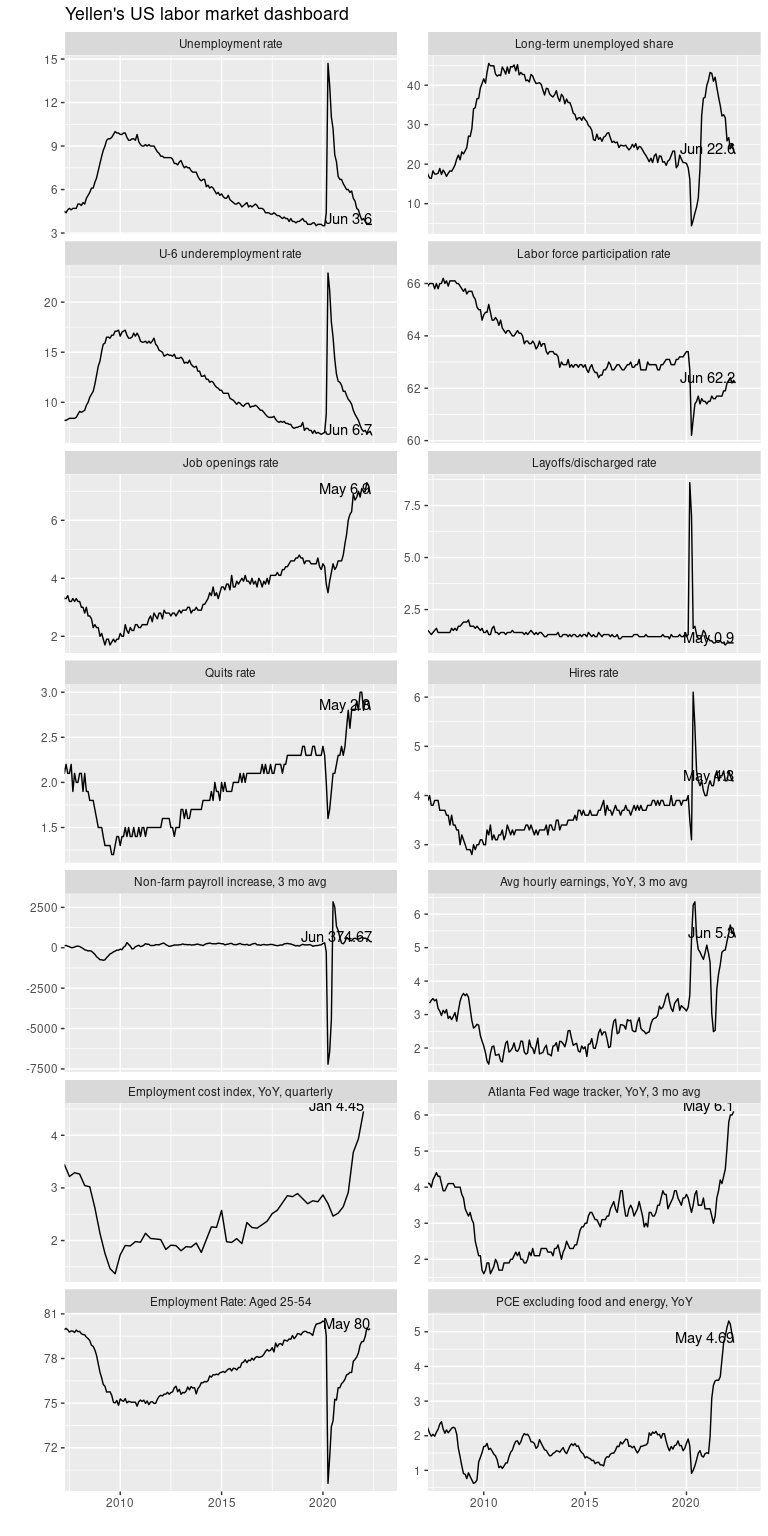
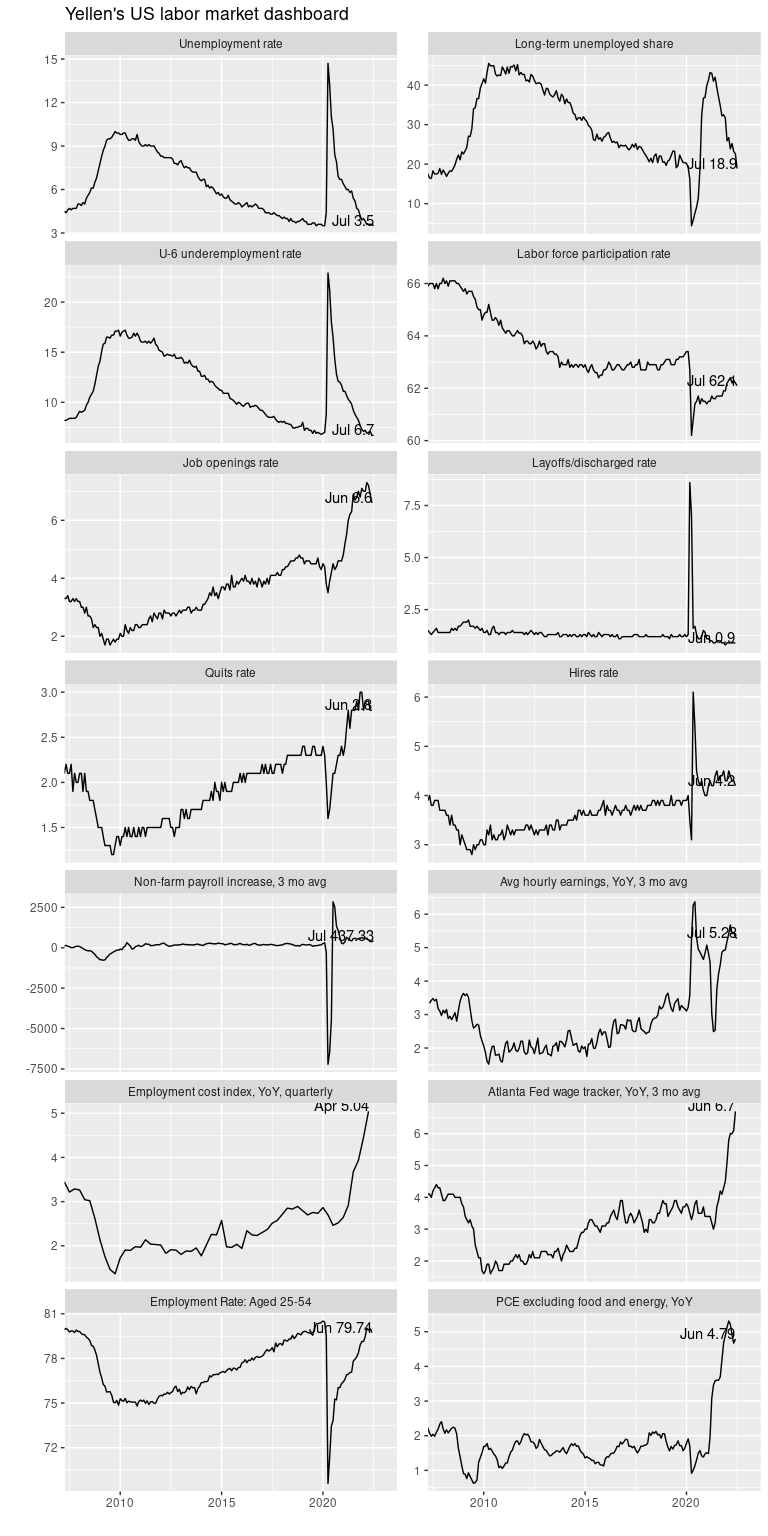
update July 2022 employment

diff --git a/README.md b/README.md
@@ -3,18 +3,22 @@ Yellen dashboard
 Mitsuo Shiota
 2019-03-19
 
--   [Summary](#summary)
--   [Libraries](#libraries)
--   [Self-made tqr package](#self-made-tqr-package)
--   [Get data from FRED](#get-data-from-fred)
--   [Transform data](#transform-data)
--   [Get data from Atlanta Fed Wage Growth
-    Trucker](#get-data-from-atlanta-fed-wage-growth-trucker)
--   [Combine data](#combine-data)
--   [Prepare for the plot](#prepare-for-the-plot)
--   [Dashboard](#dashboard)
+-   <a href="#summary" id="toc-summary">Summary</a>
+-   <a href="#libraries" id="toc-libraries">Libraries</a>
+-   <a href="#self-made-tqr-package"
+    id="toc-self-made-tqr-package">Self-made tqr package</a>
+-   <a href="#get-data-from-fred" id="toc-get-data-from-fred">Get data from
+    FRED</a>
+-   <a href="#transform-data" id="toc-transform-data">Transform data</a>
+-   <a href="#get-data-from-atlanta-fed-wage-growth-trucker"
+    id="toc-get-data-from-atlanta-fed-wage-growth-trucker">Get data from
+    Atlanta Fed Wage Growth Trucker</a>
+-   <a href="#combine-data" id="toc-combine-data">Combine data</a>
+-   <a href="#prepare-for-the-plot" id="toc-prepare-for-the-plot">Prepare
+    for the plot</a>
+-   <a href="#dashboard" id="toc-dashboard">Dashboard</a>
 
-Updated: 2022-07-09
+Updated: 2022-08-06
 
 ## Summary
 
